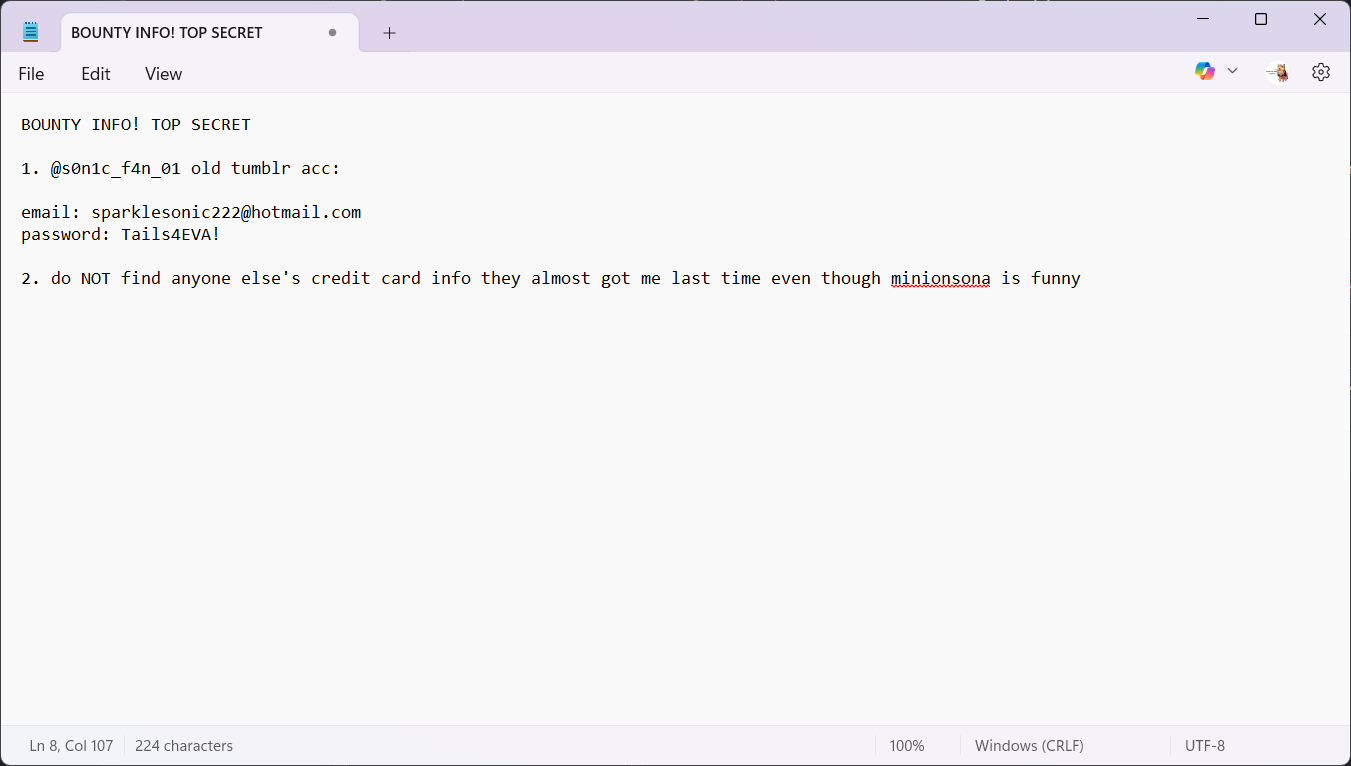
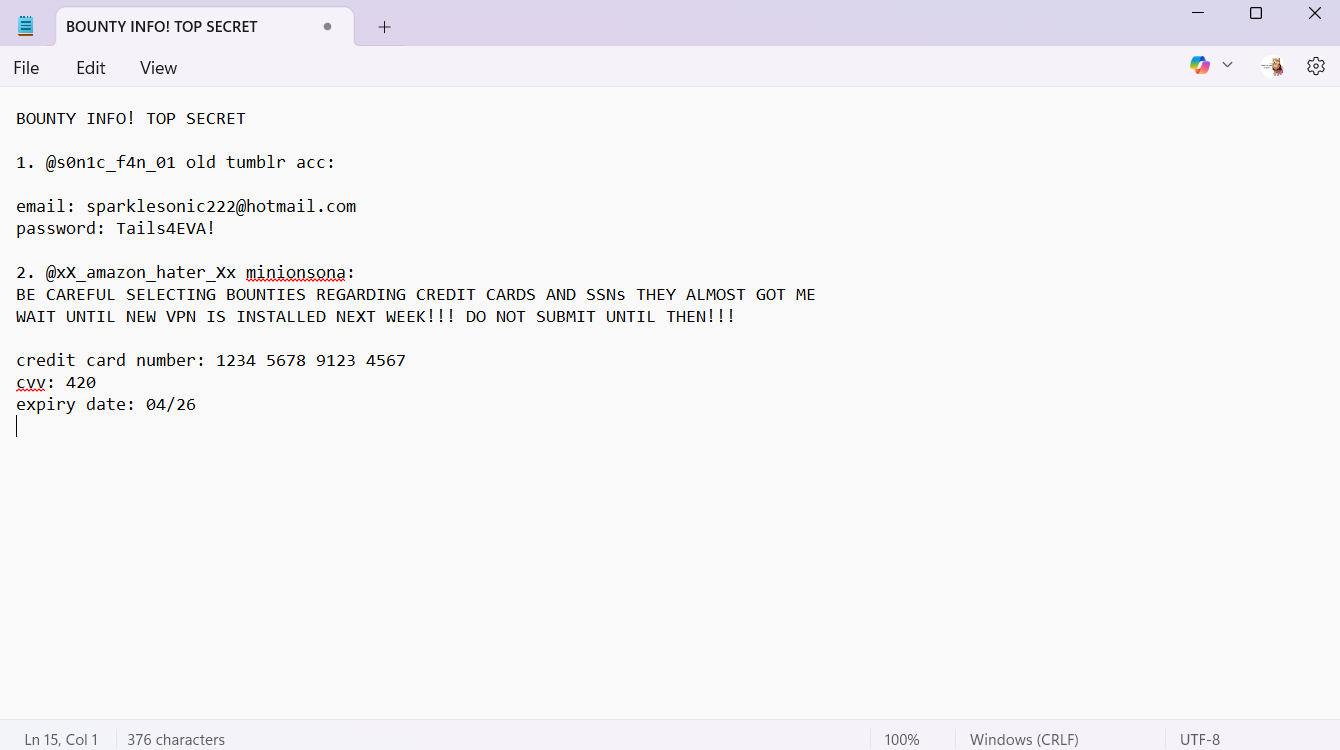
minionsona bounty complete

diff --git a/minionsona.html b/minionsona.html
@@ -4,7 +4,7 @@
 <html lang="en">
 
   <head>
-    <title>LOGIN SCREEN</title>
+    <title>MINIONSONA BOUNTY</title>
     <meta charset="utf-8" />
     <link rel="stylesheet" href="globals.css" />
     <link rel="stylesheet" href="style.css" />
@@ -28,24 +28,28 @@
 </div>
 
 <div id="LOGINSCREEN">
-  <p>Welcome back to HackerSpace, c4t_l0v3r_96 <br><br><br>
-    Enter your password:
+  <p>SUBMITTING BOUNTY FOR: <i>@xX_amazon_hater_Xx</i> <br><br>
+    <i>@xX_amazon_hater_Xx requests: </i>
+    <br>first name (no spaces), middle name, last name (mm/yy) [enter below]
   </p>
 </div>
 
 <div class="PWINPUT">
 <input type="password" id="test1">
+<input type="password" id="test2">
+<input type="password" id="test3">
 <button onclick="Compare()">Submit</button>
 <script> function Compare(){
-  if (document.getElementById("test1").value == "ilovecats"){
-    document.location='HSConsole.html'
+  if (document.getElementById("test1").value == "1234567891234567" && document.getElementById("test2").value == "420" && document.getElementById("test3").value == "04/26"){
+    document.location='youwinATWHATCOST.html'
   }
 }</script>
 </div>
 
 <details id="FORGOTPW">
-    <summary>Forgot Password?</summary>
+    <summary>Bounty Details:</summary>
     <ul>
-        <li>Hint: ilove____</li>
+        <li><b>first name:</b> his credit card number!!! XD <br><b>middle name:</b> the 3 numbers on the back!!! :p<br>
+        <b>last name:</b> the expiration month + year!!! :D <br></li>
     </ul>
 </details>

diff --git a/bounties.html b/bounties.html
@@ -43,8 +43,8 @@
       <summary id="bountysummary"><i>@xX_amazon_hater_Xx:</i> Jeff Bezos MinionSona</summary>
         <p id="bountyP">Let's discover Jeff Bezos' minionsona!!!<br><br>
           <b>first name:</b> his credit card number!!! XD <br><b>middle name:</b> the 3 numbers on the back!!! :p<br>
-          <b>last name:</b> the expiration month + year!!! :D <br> <b>personality:</b> the last 4 digits of his social security!!! :0<br>
-          <br><button onclick="document.location='index.html'"> ACCEPT BOUNTY </button></p>
+          <b>last name:</b> the expiration month + year!!! :D <br>
+          <br><button onclick="document.location='minionsona.html'"> ACCEPT BOUNTY </button></p>
     </details>
     <details>
       <summary id="bountysummary"><i>@n0t_und3rc0vr_c0p:</i> hack US GOVERNMENT (easy) </summary>

diff --git a/style.css b/style.css
@@ -316,7 +316,7 @@ button4{
   font-family: Lucida Console;
   color: white;
   background-color: RED;
-  padding: 5px 15.5px;
+  padding: 5px 18.5px;
   text-align: center;
   text-decoration: none;
   display: inline-block;
@@ -419,6 +419,13 @@ details {
   font-family: Lucida Console;
   color: #FFFFFF;
   font-size: 50px;
+}
+
+#GAMEWON_ATACOST {
+  text-align: center;
+  font-family: Lucida Console;
+  color: #FFFFFF;
+  font-size: 40px;
 }
 
 #timer_div {

diff --git a/youwinATWHATCOST.html b/youwinATWHATCOST.html
@@ -1,0 +1,15 @@
+<!DOCTYPE html>
+<link href="style.css" rel="stylesheet">
+
+<html lang="en">
+
+  <head>
+    <title>YOU WIN</title>
+    <meta charset="utf-8" />
+  </head>
+  <body style="background-color:black;">
+    <p id="GAMEWON_ATACOST">
+      <br><br><br>SUCCESSFULLY SUBMITTED BOUNTY! <br><br> YOU WIN!<br><br> BUT...<br><br> YOU DON'T HAVE MUCH TIME. <br><br> THEY WILL FIND YOU. <br><br>
+    </p>
+  </body>
+</html>

diff --git a/sonictumblr.html b/sonictumblr.html
@@ -4,7 +4,7 @@
 <html lang="en">
 
   <head>
-    <title>log in to hackerspace</title>
+    <title>SONIC TUMBLR BOUNTY</title>
     <meta charset="utf-8" />
     <link rel="stylesheet" href="globals.css" />
     <link rel="stylesheet" href="style.css" />
